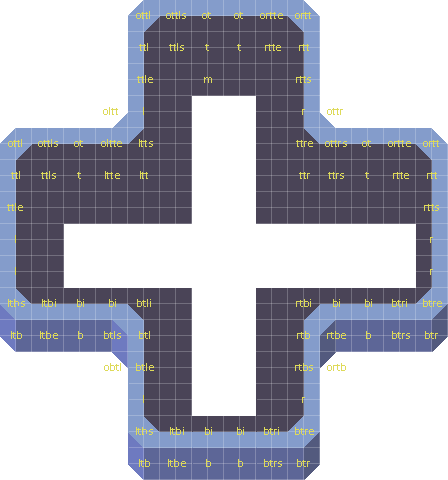
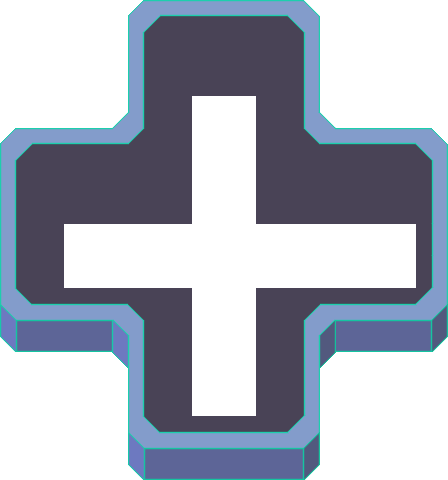
tile selector: more edge fixes identified when adding lines to perspective tiles

Changed region(s): [[0.0, 0.0, 1.0, 1.0]]

diff --git a/js/testing/testtileselect.js b/js/testing/testtileselect.js
@@ -16,10 +16,11 @@ let templateMap = {
     ttle:   {i:4,   j:2},
     ottls:  {i:5,   j:0},
     ottl:   {i:4,   j:0},
-    l:      {i:4,   j:3},
+    l:      {i:0,   j:7},
     ltts:   {i:4,   j:4},
     ltt:    {i:4,   j:5},
     ltte:   {i:3,   j:5},
+    ltti:   {i:4,   j:3},
     oltt:   {i:3,   j:3},
     oltte:  {i:3,   j:4},
     ltbs:   {i:0,   j:9},
@@ -29,6 +30,7 @@ let templateMap = {
     b:      {i:2,   j:10},
     bi:     {i:2,   j:9},
     btls:   {i:3,   j:10},
+    btlsi:  {i:3,   j:9},
     btl:    {i:4,   j:10},
     btle:   {i:4,   j:11},
     btli:   {i:4,   j:9},
@@ -40,6 +42,7 @@ let templateMap = {
     r:      {i:9,   j:12},
     rtbs:   {i:9,   j:11},
     rtb:    {i:9,   j:10},
+    rtbei:  {i:10,  j:9},
     rtbe:   {i:10,  j:10},
     rtbi:   {i:9,   j:9},
     ortb:   {i:10,  j:11},
@@ -51,6 +54,7 @@ let templateMap = {
     ttrs:   {i:10,  j:5},
     ttr:    {i:9,   j:5},
     ttre:   {i:9,   j:4},
+    ttri:   {i:9,   j:3},
     ottr:   {i:10,  j:3},
     ottrs:  {i:10,  j:4},
 };
@@ -254,7 +258,7 @@ function genPerspectiveOverlay(grid, overlay) {
                 case 1: // right
                     if (v) { // wall
                         tl = "ltbs";
-                        tr = "ltbi";
+                        tr = (grid.dr(p)) ? "btlsi" : "ltbi";
                         bl = "ltb";
                         br = (grid.dr(p)) ? "btls": "ltbe";
                     }
@@ -270,7 +274,7 @@ function genPerspectiveOverlay(grid, overlay) {
                 case 3: // top|right
                     if (v) { // wall
                         tl = "ltbs";
-                        tr = "ltbi";
+                        tr = (grid.dr(p)) ? "btlsi" : "ltbi";
                         bl = "ltb";
                         br = (grid.dr(p)) ? "btls": "ltbe";
                     } else { // empty
@@ -279,7 +283,7 @@ function genPerspectiveOverlay(grid, overlay) {
                     break;
                 case 4: // left
                     if (v) { // wall
-                        tl = "btri";
+                        tl = (grid.dl(p)) ? "rtbei" : "btri";
                         tr = "btre";
                         bl = "btrs";
                         bl = (grid.dl(p)) ? "rtbe": "btrs";
@@ -288,15 +292,15 @@ function genPerspectiveOverlay(grid, overlay) {
                     break;
                 case 5: // left|right
                     if (v) { // wall
-                        tl = "bi";
-                        tr = "bi";
+                        tl = (grid.dl(p)) ? "rtbei" : "bi";
+                        tr = (grid.dr(p)) ? "btlsi" : "bi";
                         bl = (grid.dl(p)) ? "rtbe": "b";
                         br = (grid.dr(p)) ? "btls": "b";
                     }
                     break;
                 case 6: // top|left
                     if (v) { // wall
-                        tl = "btri";
+                        tl = (grid.dl(p)) ? "rtbei" : "btri";
                         tr = "btre";
                         bl = (grid.dl(p)) ? "rtbe": "btrs";
                         br = "btr";
@@ -306,8 +310,8 @@ function genPerspectiveOverlay(grid, overlay) {
                     break;
                 case 7: // top|left|right
                     if (v) { // wall
-                        tl = "bi";
-                        tr = "bi";
+                        tl = (grid.dl(p)) ? "rtbei" : "bi";
+                        tr = (grid.dl(p)) ? "btlsi" : "bi";
                         bl = (grid.dl(p)) ? "rtbe": "b";
                         br = (grid.dr(p)) ? "btls": "b";
                     } else { // empty
@@ -317,8 +321,8 @@ function genPerspectiveOverlay(grid, overlay) {
                     break;
                 case 8: // down
                     if (v) { // wall
-                        tl = "ttl";
-                        tr = "rtt";
+                        tl = (grid.dl(p)) ? "ltti" : "ttl";
+                        tr = (grid.dr(p)) ? "ttri" : "rtt";
                         bl = (grid.dl(p)) ? "ltts" : "ttle";
                         br = (grid.dr(p)) ? "ttre": "rtts";
                     } else { // empty
@@ -328,7 +332,7 @@ function genPerspectiveOverlay(grid, overlay) {
                     break;
                 case 9: // down|right
                     if (v) { // wall
-                        tl = "ttl";
+                        tl = (grid.dl(p)) ? "ltti" : "ttl";
                         tr = (grid.dr(p)) ? "ttls" : "rtbi";
                         bl = (grid.dl(p)) ? "ltts" : "ttle";
                         br = (grid.dr(p)) ? "m" : "rtb";
@@ -340,8 +344,8 @@ function genPerspectiveOverlay(grid, overlay) {
                     break;
                 case 10: // top|down
                     if (v) { // wall
-                        tl = "l";
-                        tr = "r";
+                        tl = (grid.dl(p)) ? "ltti" : "l";
+                        tr = (grid.dr(p)) ? "ttri" : "r";
                         bl = (grid.dl(p)) ? "ltts": "l";
                         br = (grid.dr(p)) ? "ttre": "r";
                     } else {
@@ -351,7 +355,7 @@ function genPerspectiveOverlay(grid, overlay) {
                     break;
                 case 11: // top|down|right
                     if (v) { // wall
-                        tl = "l";
+                        tl = (grid.dl(p)) ? "ltti" : "l";
                         tr = (grid.dr(p)) ? (grid.ur(p)) ? "m" : "ttr" : "rtbi";
                         bl = (grid.dl(p)) ? "ltts": "l";
                         br = (grid.dr(p)) ? "m" : "rtb"
@@ -365,7 +369,7 @@ function genPerspectiveOverlay(grid, overlay) {
                 case 12: // down|left
                     if (v) { // wall
                         tl = (grid.dl(p)) ? "rtte" : "btli";
-                        tr = "rtt";
+                        tr = (grid.dr(p)) ? "ttri" : "rtt";
                         bl = (grid.dl(p)) ? "m" : "btl"
                         br = (grid.dr(p)) ? "ttre": "rtts";
                     } else { // empty
@@ -390,7 +394,7 @@ function genPerspectiveOverlay(grid, overlay) {
                 case 14: // top|down|left
                     if (v) { // wall
                         tl = (grid.dl(p)) ? (grid.ul(p)) ? "m" : "ltt" : "btli";
-                        tr = "r";
+                        tr = (grid.dr(p)) ? "ttri" : "r";
                         bl = (grid.dl(p)) ? "m" : "btl"
                         br = (grid.dr(p)) ? "ttre": "r";
                     } else { // empty
@@ -605,7 +609,7 @@ function start() {
 }
 
 const bgTemplatePath = "srcref/bgtemplate.png";
-const tileTemplatePath = "srcref/tiletemplate2.png";
+const tileTemplatePath = "srcref/tiletemplate.png";
 
 let bgtiles;
 let walltiles;
